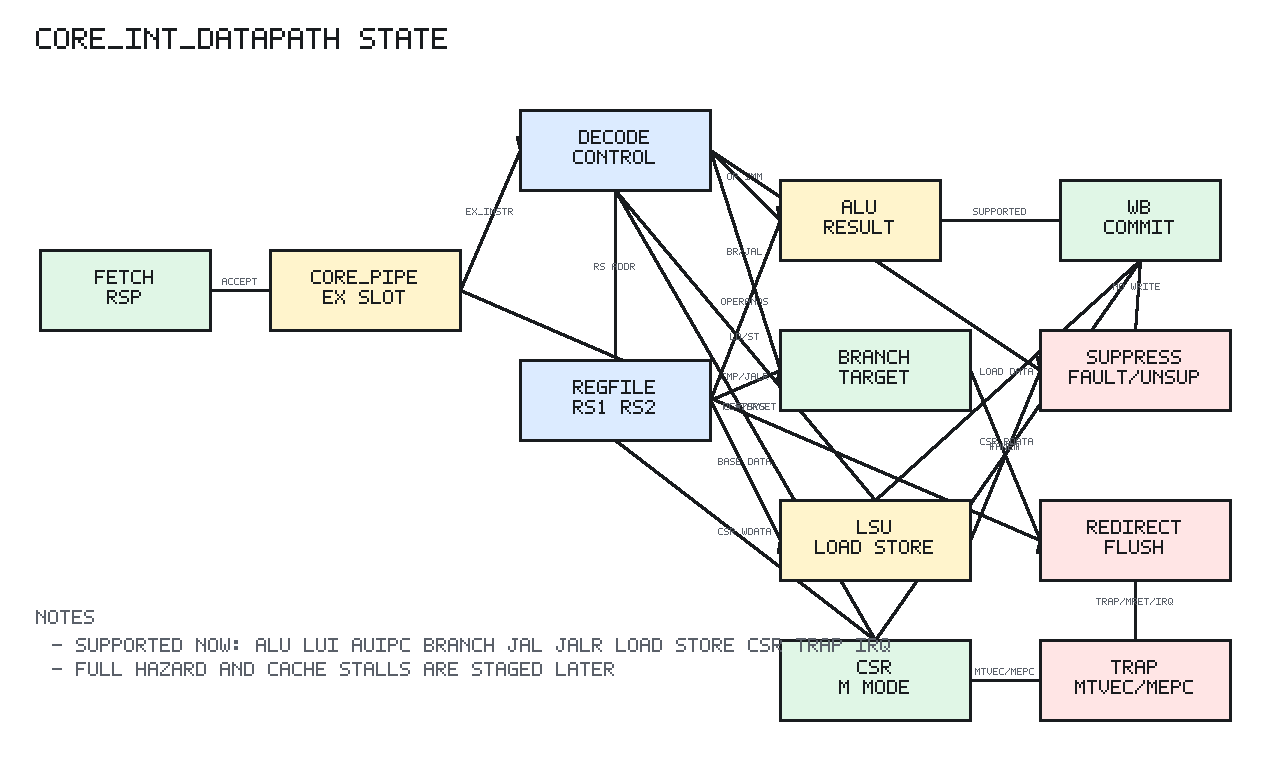
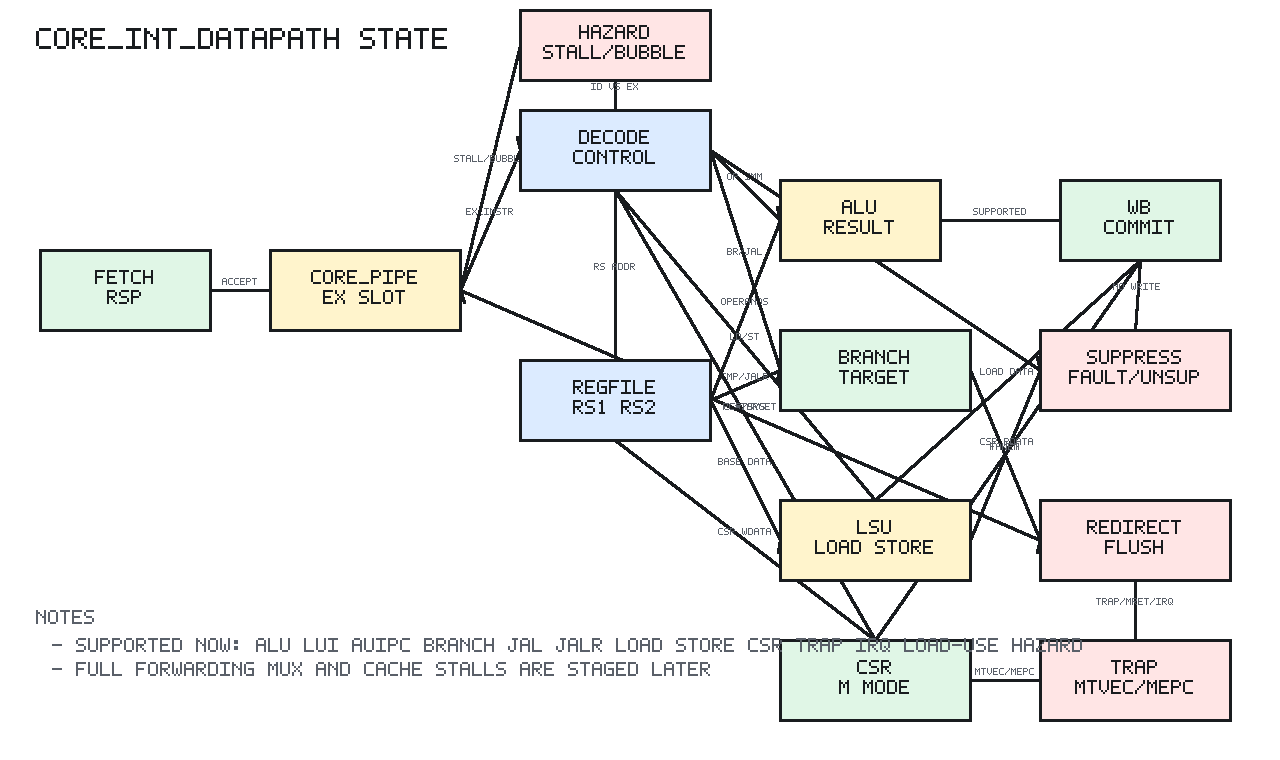
Integrate core load use hazard control

diff --git a/docs/tools/render_state_pngs.py b/docs/tools/render_state_pngs.py
@@ -685,6 +685,7 @@ def main() -> None:
                 Node("fetch", 40, 250, 170, 80, ("FETCH", "RSP"), GREEN),
                 Node("pipe", 270, 250, 190, 80, ("CORE_PIPE", "EX SLOT"), YELLOW),
                 Node("decode", 520, 110, 190, 80, ("DECODE", "CONTROL"), BLUE),
+                Node("hazard", 520, 10, 190, 70, ("HAZARD", "STALL/BUBBLE"), PINK),
                 Node("reg", 520, 360, 190, 80, ("REGFILE", "RS1 RS2"), BLUE),
                 Node("alu", 780, 180, 160, 80, ("ALU", "RESULT"), YELLOW),
                 Node("branch", 780, 330, 190, 80, ("BRANCH", "TARGET"), GREEN),
@@ -698,6 +699,8 @@ def main() -> None:
             [
                 Edge("fetch", "pipe", "ACCEPT"),
                 Edge("pipe", "decode", "EX_INSTR"),
+                Edge("decode", "hazard", "ID VS EX"),
+                Edge("hazard", "pipe", "STALL/BUBBLE"),
                 Edge("decode", "reg", "RS ADDR"),
                 Edge("reg", "alu", "OPERANDS"),
                 Edge("reg", "branch", "CMP/JALR"),
@@ -718,7 +721,7 @@ def main() -> None:
                 Edge("decode", "suppress", "ILLEGAL/UNSUP"),
                 Edge("suppress", "wb", "NO WRITE"),
             ],
-            ["SUPPORTED NOW: ALU LUI AUIPC BRANCH JAL JALR LOAD STORE CSR TRAP IRQ", "FULL HAZARD AND CACHE STALLS ARE STAGED LATER"],
+            ["SUPPORTED NOW: ALU LUI AUIPC BRANCH JAL JALR LOAD STORE CSR TRAP IRQ LOAD-USE HAZARD", "FULL FORWARDING MUX AND CACHE STALLS ARE STAGED LATER"],
         ),
         (
             "core/docs/images/core_regfile_state.png",

diff --git a/core/docs/core_int_datapath_design_spec.md b/core/docs/core_int_datapath_design_spec.md
@@ -4,7 +4,8 @@
 
 `core_int_datapath` is a staged integration block. It is not the final core top;
 it exists to verify the first executable integer, load/store, CSR, trap, and
-interrupt datapath before full hazard logic is integrated.
+interrupt datapath with load-use hazard control before full EX/WB forwarding mux
+integration.
 
 ## 2. Block Diagram
 
@@ -20,8 +21,12 @@ interrupt datapath before full hazard logic is integrated.
  +-------------+      +--------------+
  | core_decode |----->| core_regfile |
  +------+------+      +------+-------+
-        |                    |
-        v                    v
+        |                    ^
+        v                    |
+ +--------------+      stall/bubble
+ | core_hazard  |-------------+
+ +------+-------+             |
+        |                    v
  +--------------+      rs1/rs2 data
  | wb selector  |             |
  +------+-------+             v
@@ -120,6 +125,19 @@ Trap/MRET redirects have priority over branch/JAL/JALR redirects. Trap entry
 updates `mepc`, `mcause`, `mtval`, and `mstatus` in `core_csr` on the same clock
 edge that `core_pipe` flushes younger slots.
 
+Hazard selection:
+
+```text
+ID uses rs1/rs2 matching EX load rd -> stall fetch/decode and bubble execute
+EX forwarding indication            -> exposed for later operand mux integration
+WB forwarding indication            -> exposed for later operand mux integration
+```
+
+The current staged datapath still relies on register-file timing for non-load
+adjacent dependencies. The forwarding decision outputs are observable now, and
+the actual operand forwarding muxes will be added when the final EX/WB split is
+introduced.
+
 ## 4. Sequential State Diagram
 
 ![core_int_datapath state](images/core_int_datapath_state.png)
@@ -146,6 +164,9 @@ Each execute/writeback cycle:
   branch/JAL/JALR target is computed
   load/store request and load writeback data are computed
   CSR read/write data and trap priority are computed
+  ID source registers are compared with EX/WB destinations
+  if load-use hazard:
+    core_pipe holds fetch/decode and injects an EX bubble
   if load/store fault:
     architectural writeback is suppressed
   if trap or MRET redirects:

diff --git a/core/docs/core_int_datapath_spec.md b/core/docs/core_int_datapath_spec.md
@@ -16,6 +16,7 @@ core_branch
 core_lsu
 core_csr
 core_trap
+core_hazard
 core_wb
 ```
 
@@ -36,6 +37,7 @@ Zicsr read/write/set/clear register and immediate operations
 ECALL/EBREAK/illegal/CSR-fault trap redirect
 MRET redirect
 machine timer/external interrupt trap inputs
+load-use hazard stall and execute bubble
 ```
 
 ## 3. Unsupported Instruction Scope
@@ -73,6 +75,11 @@ trap_tval_o
 trap_pc_o
 mret_taken_o
 csr_rdata_o
+hazard_load_use_o
+hazard_fwd_rs1_ex_o
+hazard_fwd_rs1_wb_o
+hazard_fwd_rs2_ex_o
+hazard_fwd_rs2_wb_o
 timer_irq_i
 external_irq_i
 dmem_req_valid_o
@@ -92,4 +99,4 @@ dependencies through the register file timing, LUI, AUIPC, taken and not-taken
 branches, JAL/JALR link writeback, redirect flush, load data extension, store
 request formatting, LSU fault/trap behavior, CSR read/write old-value
 writeback, ECALL trap entry, MRET redirect, interrupt redirect, x0 suppression,
-illegal trap behavior, and fetch PC stepping.
+illegal trap behavior, load-use stall/bubble behavior, and fetch PC stepping.

diff --git a/core/docs/core_int_datapath_verification_report.md b/core/docs/core_int_datapath_verification_report.md
@@ -25,15 +25,15 @@ make lint
 | 95ns-145ns | Upper/link/redirect | Execute LUI/AUIPC/JAL link and first redirect | U-immediate, PC-relative, link, and redirect matched |
 | 145ns-205ns | Suppression and setup | x0, NOP, and branch operands | Suppressions and operand commits matched |
 | 205ns-317ns | Branch/JAL/JALR redirect | Taken BEQ, not-taken BEQ, JAL, JALR, redirect bubbles | Targets, links, flushes, and no-write branch behavior matched |
-| 317ns-407ns | Load/store/trap | LW, LB, LBU, SW, SB, misaligned LW, response-error LW | Load data, store formatting, load misaligned trap, and response fault matched |
-| 407ns-546ns | CSR/trap/IRQ | CSRRW/CSRRS, ECALL, MRET, CSR IRQ enable, timer IRQ | CSR writes, trap metadata, redirects, and interrupt entry matched |
+| 317ns-436ns | Load/store/trap/hazard | LW, LB, LBU, SW, SB, misaligned LW, response-error LW, load-use ADD | Load data, store formatting, load trap, response fault, and load-use bubble matched |
+| 436ns-686ns | CSR/trap/IRQ | CSRRW/CSRRS, ECALL, MRET, CSR IRQ enable, timer IRQ | CSR writes, trap metadata, redirects, and interrupt entry matched |
 
 ## 4. Coverage Summary
 
 The standalone testbench reports:
 
 ```text
-tb_core_int_datapath coverage: pass_count=59 commit=32 alu_i=13 alu_r=2 upper=2 link=3 branch=2 redirect=8 load=3 store=2 lsu_fault=1 csr=9 trap=4 irq=1 suppress=19 pc=55
+tb_core_int_datapath coverage: pass_count=63 commit=34 alu_i=13 alu_r=3 upper=2 link=3 branch=2 redirect=8 load=4 store=2 lsu_fault=1 csr=9 trap=4 irq=1 hazard=1 suppress=20 pc=58
 tb_core_int_datapath PASS
 ```
 
@@ -51,5 +51,6 @@ Coverage intent met:
 - Misaligned load trap and response-error LSU fault suppression.
 - CSR old-value writeback, readback, and state update.
 - ECALL trap entry, MRET redirect, and timer interrupt trap.
+- Load-use stall and execute bubble.
 - x0 and NOP suppression.
 - Fetch PC stepping.

diff --git a/core/docs/core_int_datapath_verification_plan.md b/core/docs/core_int_datapath_verification_plan.md
@@ -32,6 +32,7 @@ advance, and checks expected register writeback.
 | ECALL trap | Trap metadata, CSR trap entry, and redirect to `mtvec` |
 | MRET | Redirect to `mepc` and mstatus restore path |
 | Timer IRQ | CSR-enabled timer interrupt trap and redirect |
+| Load-use hazard | Dependent ID instruction stalls fetch/decode and injects EX bubble |
 | x0 write | x0 writeback suppression |
 | Illegal | Illegal instruction trap and writeback suppression |
 
@@ -39,5 +40,5 @@ advance, and checks expected register writeback.
 
 All expected commits and suppressions must match. Coverage counters must show
 ALU-immediate, ALU-register, upper-immediate, branch, link, redirect,
-load, store, LSU fault, CSR, trap, interrupt, suppression, and PC stepping
-coverage.
+load, store, LSU fault, CSR, trap, interrupt, load-use hazard, suppression, and
+PC stepping coverage.

diff --git a/ROADMAP.md b/ROADMAP.md
@@ -38,7 +38,7 @@ PASS       Current verification target passes
 | `core/core_hazard` | PASS | Load-use stalls, EX/WB forwarding, priority, x0, and random dependency tests pass |
 | `core/core_wb` | PASS | Source selection, write suppression, x0, default, and random writeback tests pass |
 | `core/core_pipe` | PASS | Pipeline PC, IF/ID, EX/WB, stall, bubble, redirect, fault, and random control tests pass |
-| `core/core_int_datapath` | PASS | Executable datapath for ALU, LUI/AUIPC, branch/JAL/JALR redirect, loads, stores, CSR, traps, timer IRQ, and suppression paths passes |
+| `core/core_int_datapath` | PASS | Executable datapath for ALU, LUI/AUIPC, branch/JAL/JALR redirect, loads, stores, CSR, traps, timer IRQ, load-use hazard, and suppression paths passes |
 | `core` | TODO | Remaining RV32I + Zicsr 3-stage core integration |
 | `frontend` | TODO | PC/fetch/redirect |
 | `icache` | TODO | Direct-mapped I-cache |
@@ -51,7 +51,7 @@ PASS       Current verification target passes
 ## Near-Term Plan
 
 ```text
-1. Integrate hazard/forwarding control into the executable core datapath
+1. Wrap the executable datapath into the first `core` top-level module
 ```
 
 ## Commit Policy Going Forward